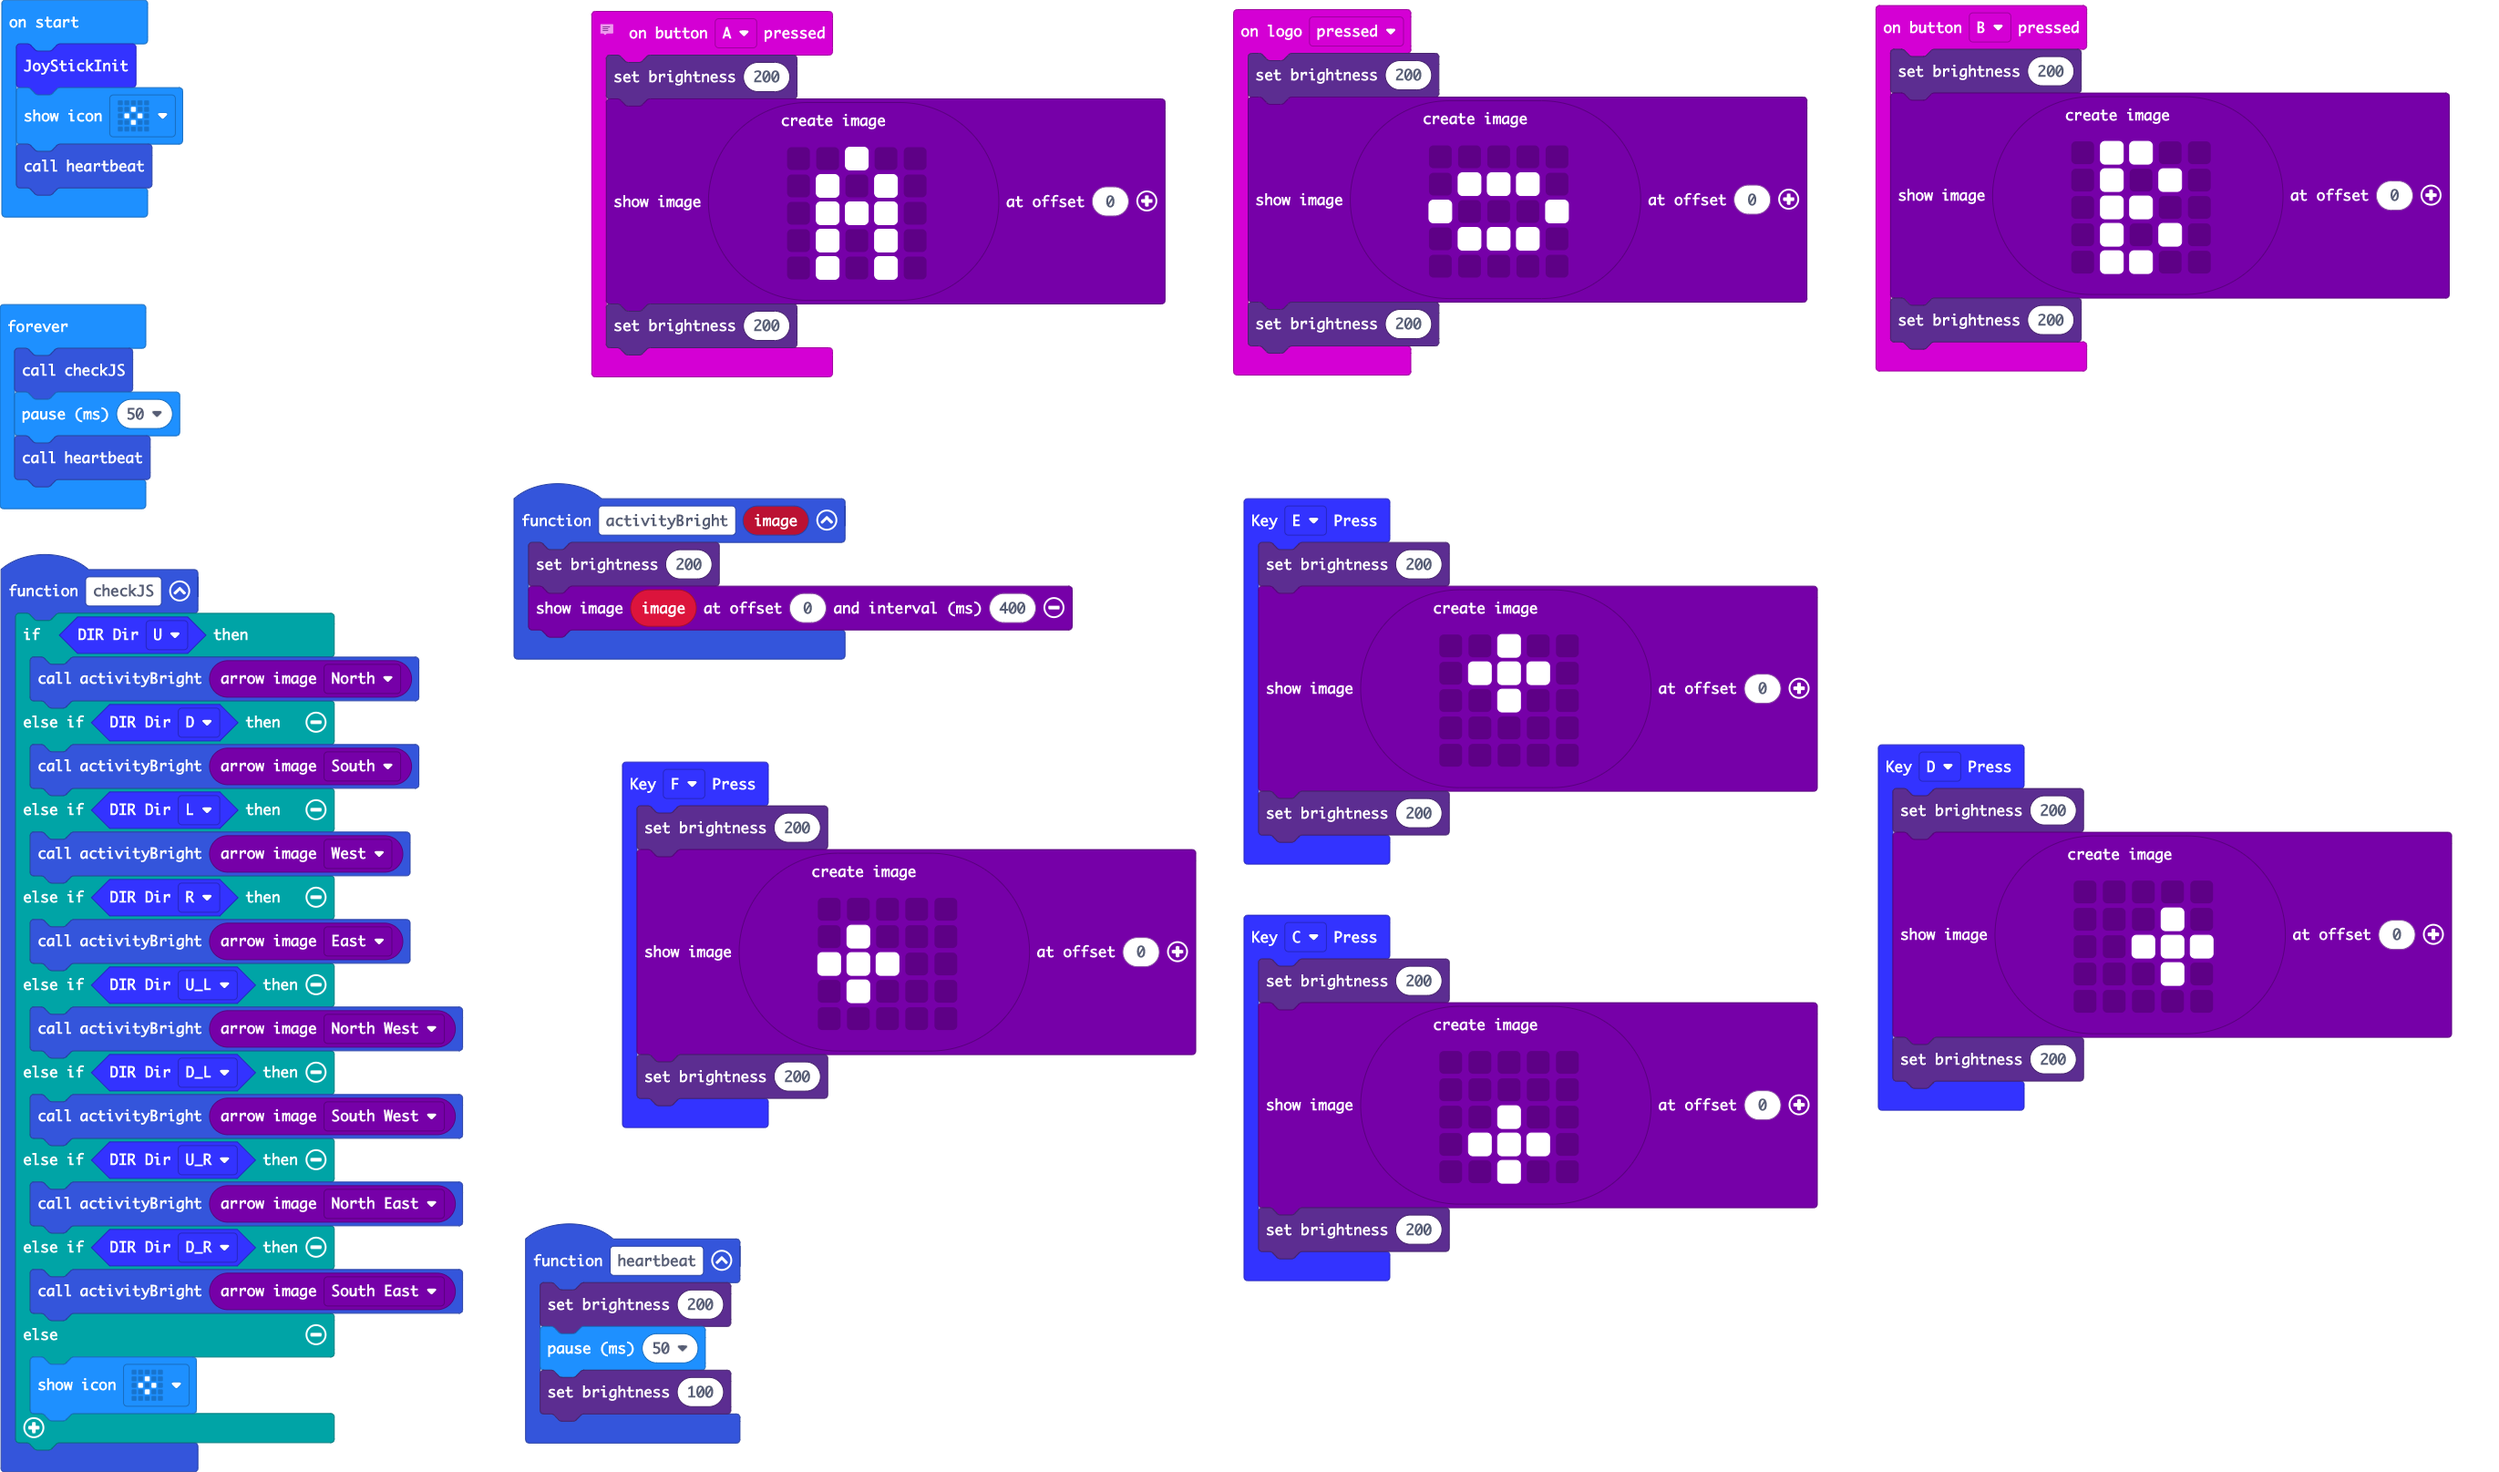
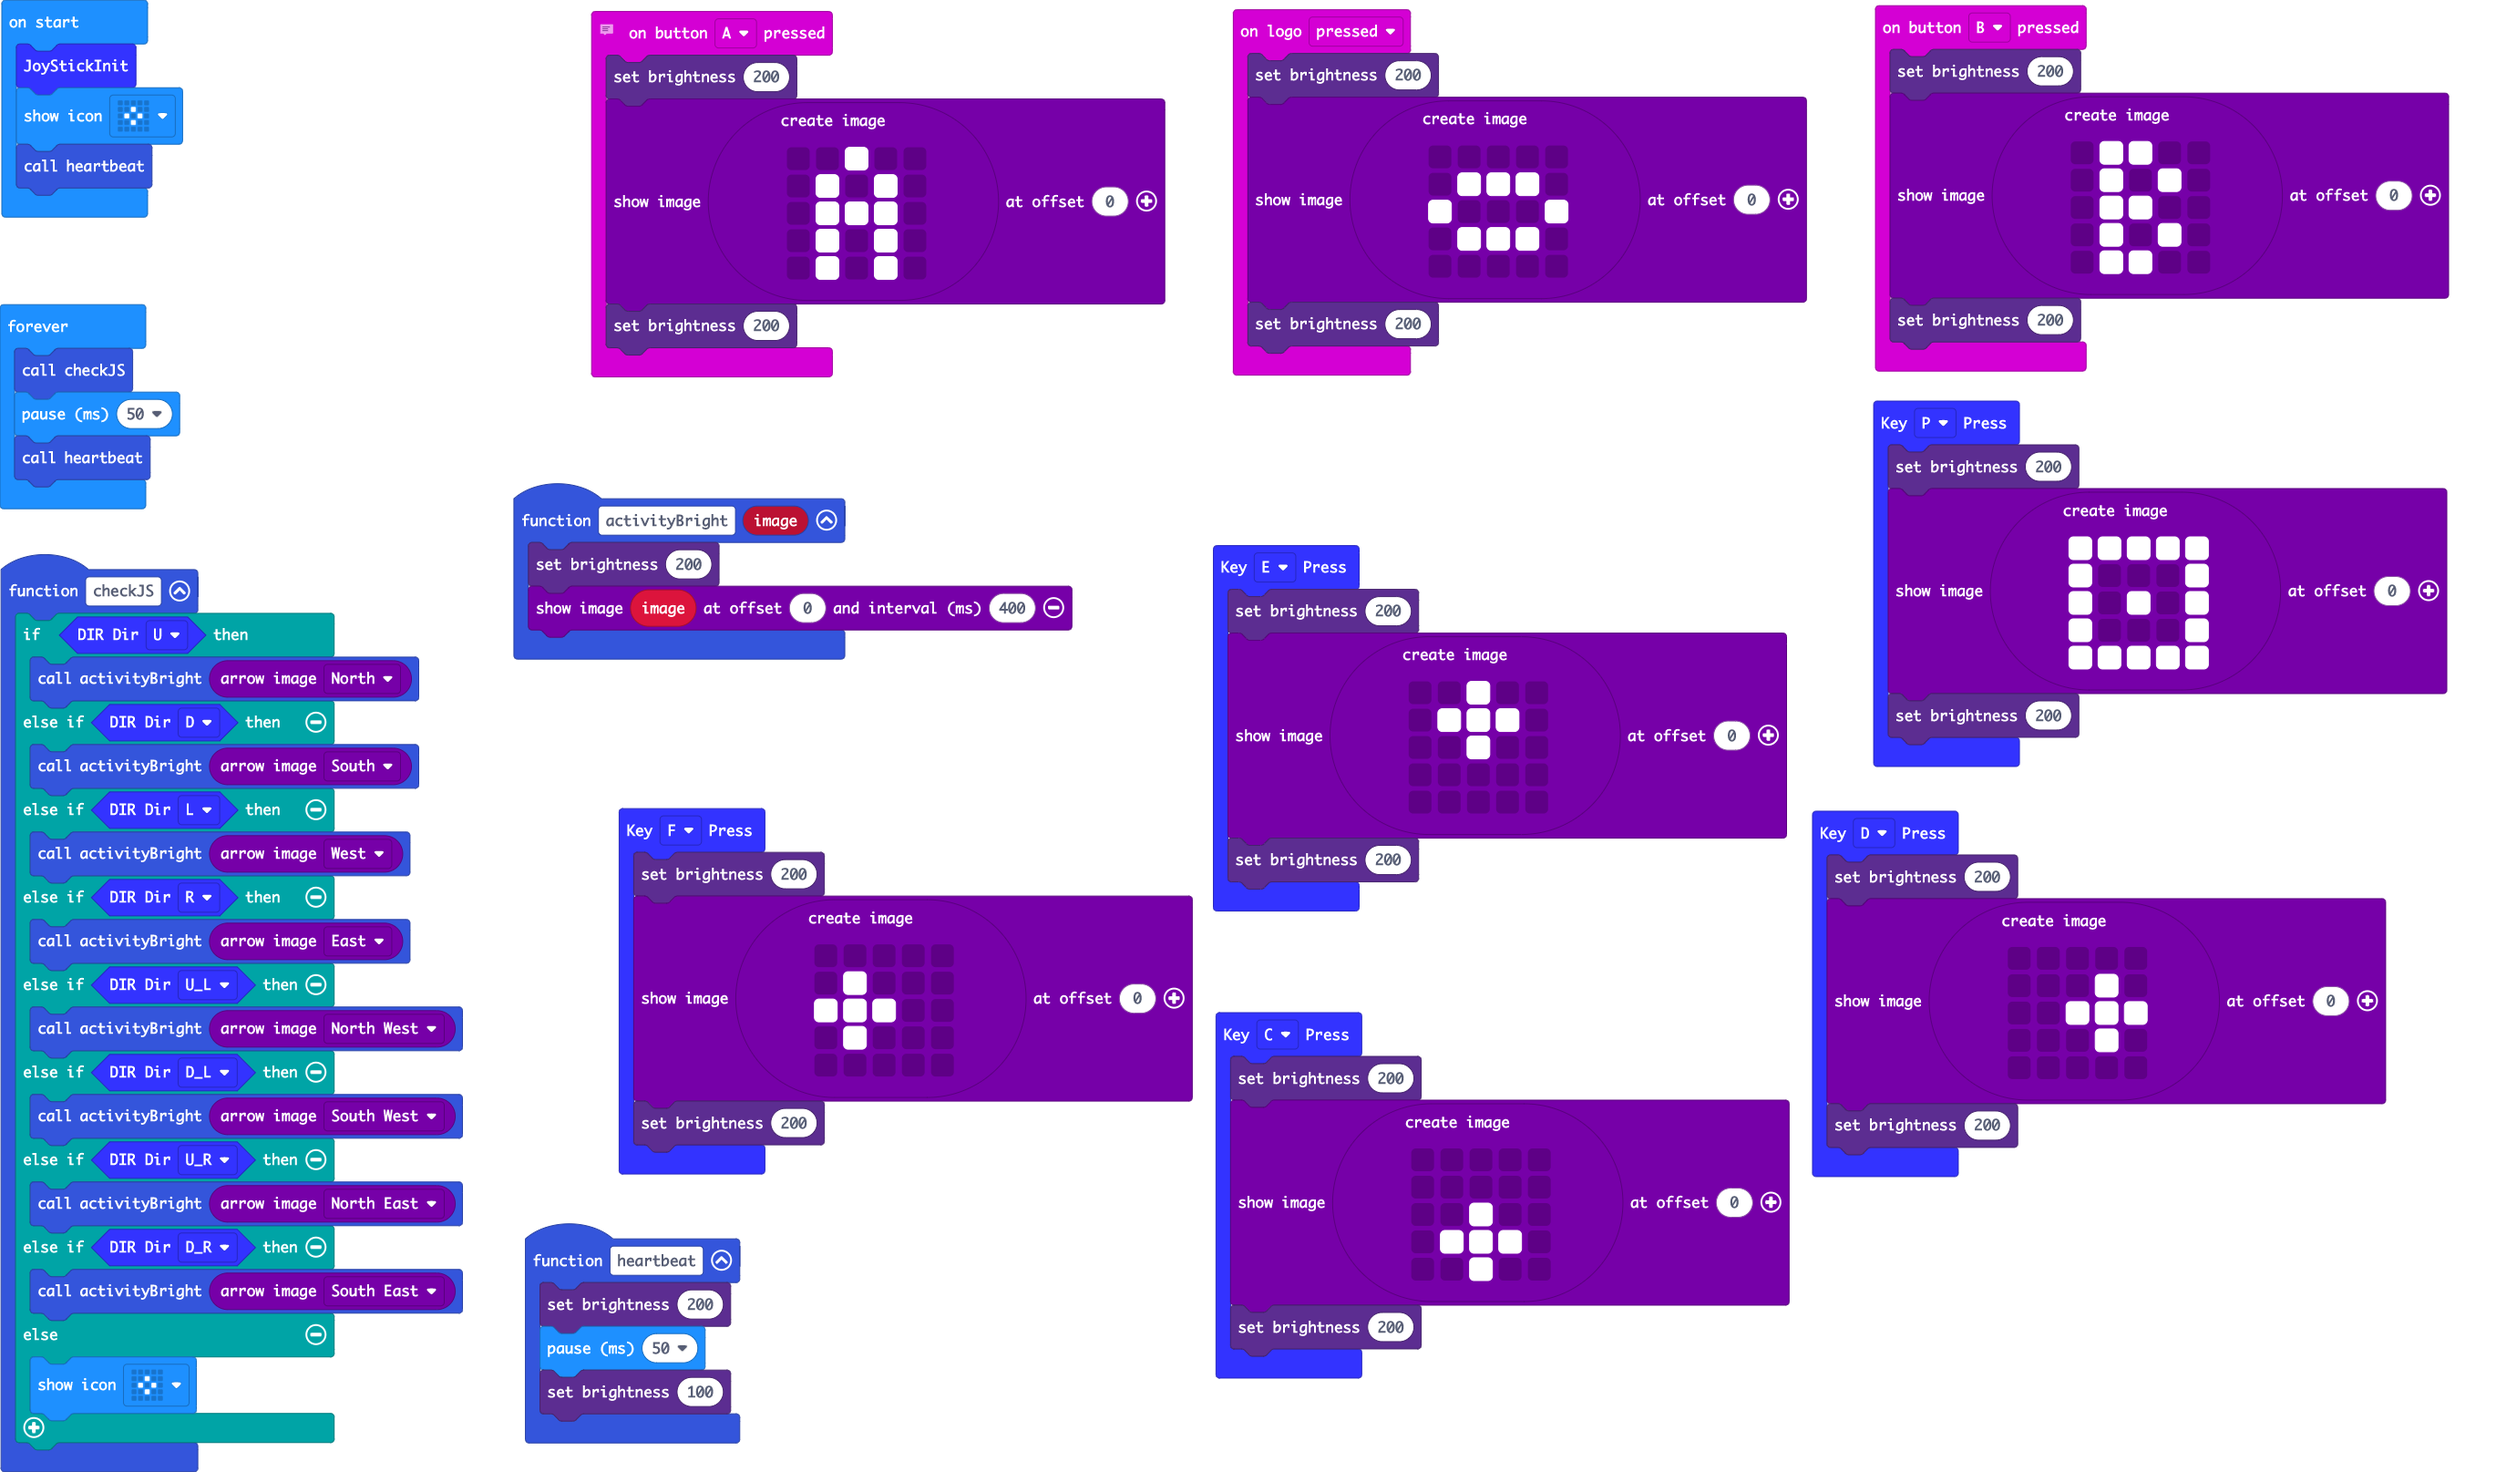
add joystick hat

diff --git a/main.ts b/main.ts
@@ -43,6 +43,17 @@ function checkJS () {
         basic.showIcon(IconNames.SmallDiamond)
     }
 }
+WSJoyStick.onKey(KEY.P, function () {
+    led.setBrightness(200)
+    images.createImage(`
+        # # # # #
+        # . . . #
+        # . # . #
+        # . . . #
+        # # # # #
+        `).showImage(0)
+    led.setBrightness(200)
+})
 WSJoyStick.onKey(KEY.E, function () {
     led.setBrightness(200)
     images.createImage(`
